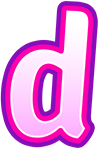
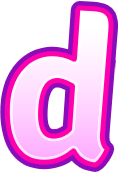
워드 인트로 타이틀 수정

diff --git a/src/componens/game/words/GameIntro.tsx b/src/componens/game/words/GameIntro.tsx
@@ -41,7 +41,7 @@ const GameIntro: FC = () => {
       bgmAudio.current = resources.audioBgm.sound;
 
       const mainTitle1 = container.current!.getChildByName('mainTitle1', true) as PIXISprite;
-      const mainTitle2 = container.current!.getChildByName('mainTitle2', true) as PIXISprite;
+      // const mainTitle2 = container.current!.getChildByName('mainTitle2', true) as PIXISprite;
       const subTitleCon = container.current!.getChildByName('subTitles', true) as PIXIContainer;
       const subTitleBg = container.current!.getChildByName('subTitleBg', true) as PIXISprite;
       const charactor = container.current!.getChildByName('charactor', true) as PIXISprite;
@@ -58,22 +58,22 @@ const GameIntro: FC = () => {
          
          gsap.to(mainTitle1, 0.3, {delay: 0.5, pixi: { alpha: 1}});
          gsap.from(mainTitle1, 0.7, {delay: 0.5, pixi: { scale: 0, y: '+=200'}, ease: Back.easeOut});
-         gsap.to(mainTitle2, 0.3, {delay: 0.8, pixi: { alpha: 1}});
-         gsap.from(mainTitle2, 0.7, {delay: 0.8, pixi: { scale: 0, y: '+=200'}, ease: Back.easeOut});
+         // gsap.to(mainTitle2, 0.3, {delay: 0.8, pixi: { alpha: 1}});
+         // gsap.from(mainTitle2, 0.7, {delay: 0.8, pixi: { scale: 0, y: '+=200'}, ease: Back.easeOut});
 
-         gsap.from(subTitleCon, 0.8, {delay: 1.4, pixi: { scale: 0.7, y: '+=100' }, ease: Back.easeOut});
-         gsap.to(subTitleBg, 1, {delay: 1.4, pixi: { alpha: 1 }});
+         gsap.from(subTitleCon, 0.8, {delay: 1, pixi: { scale: 0.7, y: '+=100' }, ease: Back.easeOut});
+         gsap.to(subTitleBg, 1, {delay: 1, pixi: { alpha: 1 }});
          const nums1 = [0, 2, 1];
          const nums2 = [1, 0, 2];
          Array.from(Array(6), (k,i) => {
             const subTitle = container.current!.getChildByName(`subTitle${i+1}`, true) as PIXISprite;
             let num1 = nums1[i%3]+0.1*i;
             let num2 = nums2[i%3]+0.1*i;
-            gsap.to(subTitle, 0.6, {delay: 1.4, pixi: { alpha: 1, brightness: 1 }, ease: Linear.easeNone});
-            gsap.to(subTitle, 0.3, {delay: 0.2 * num1 + 1.8, pixi: { alpha: 0.2, brightness: 2 }, ease: Linear.easeNone});
-            gsap.to(subTitle, 0.3, {delay: 0.2 * num1 + 2, pixi: { alpha: 1, brightness: 1 }, ease: Linear.easeNone});
-            gsap.to(subTitle, 0.3, {delay: 0.2 * num2 + 2.2, pixi: { alpha: 0.5, brightness: 1.5 }, ease: Linear.easeNone});
-            gsap.to(subTitle, 0.3, {delay: 0.2 * num2 + 2.4, pixi: { alpha: 1, brightness: 1 }, ease: Linear.easeNone});
+            gsap.to(subTitle, 0.6, {delay: 1, pixi: { alpha: 1, brightness: 1 }, ease: Linear.easeNone});
+            gsap.to(subTitle, 0.3, {delay: 0.2 * num1 + 1.4, pixi: { alpha: 0.2, brightness: 2 }, ease: Linear.easeNone});
+            gsap.to(subTitle, 0.3, {delay: 0.2 * num1 + 1.6, pixi: { alpha: 1, brightness: 1 }, ease: Linear.easeNone});
+            gsap.to(subTitle, 0.3, {delay: 0.2 * num2 + 1.8, pixi: { alpha: 0.5, brightness: 1.5 }, ease: Linear.easeNone});
+            gsap.to(subTitle, 0.3, {delay: 0.2 * num2 + 2, pixi: { alpha: 1, brightness: 1 }, ease: Linear.easeNone});
          });
 
          gsap.to(charactor, 0.3, {delay: 0.1, pixi: { alpha: 1}});
@@ -96,7 +96,7 @@ const GameIntro: FC = () => {
          gsap.to([leftHighLigt1, rightHighLigt1, leftHighLigt2, rightHighLigt2], 0.2, {pixi: {brightness: 1.5}, yoyo: true, repeat: -1, ease: Linear.easeNone});
       } else {
          mainTitle1.alpha = 1;
-         mainTitle2.alpha = 1;
+         // mainTitle2.alpha = 1;
          subTitleBg.alpha = 1;
          Array.from(Array(6), (k,i) => {
             const subTitle = container.current!.getChildByName(`subTitle${i+1}`, true) as PIXISprite;
@@ -150,52 +150,52 @@ const GameIntro: FC = () => {
             <Sprite 
                name="mainTitle1" 
                texture={resources.introMainTitle1.texture}
-               anchor={[1, 0.5]}
-               position={[967, 373]}
+               anchor={0.5}
+               position={[1025, 343]}
                alpha={0} />
-            <Sprite 
+            {/* <Sprite 
                name="mainTitle2" 
                texture={resources.introMainTitle2.texture}
                anchor={[0, 0.5]}
                position={[977, 375]}
-               alpha={0} />
+               alpha={0} /> */}
          </Container>
 
          <Container name="subTitles" position={[1024, 540]}>
             <Sprite 
                name="subTitleBg" 
                texture={resources.introSubTitleBg.texture}
-               position={[-312, -114]}
+               position={[-370, -130]}
                alpha={0} />
             <Sprite 
                name="subTitle1" 
                texture={resources.introSubTitle1.texture}
-               position={[-274, -63]}
+               position={[-332, -77]}
                alpha={0} />
             <Sprite 
                name="subTitle2" 
                texture={resources.introSubTitle2.texture}
-               position={[-134, -37]}
+               position={[-165, -46]}
                alpha={0} />
             <Sprite 
                name="subTitle3" 
                texture={resources.introSubTitle3.texture}
-               position={[-44, -75]}
+               position={[-57, -93]}
                alpha={0} />
             <Sprite 
                name="subTitle4" 
                texture={resources.introSubTitle4.texture}
-               position={[6, -38]}
+               position={[2, -47]}
                alpha={0} />
             <Sprite 
                name="subTitle5" 
                texture={resources.introSubTitle5.texture}
-               position={[96, -75]}
+               position={[110, -87]}
                alpha={0} />
             <Sprite 
                name="subTitle6" 
                texture={resources.introSubTitle6.texture}
-               position={[180, -30]}
+               position={[208, -37]}
                alpha={0} />
          </Container>
 

diff --git a/src/componens/game/phonics/GameIntro.tsx b/src/componens/game/phonics/GameIntro.tsx
@@ -59,7 +59,6 @@ const GameIntro: FC = () => {
       const aimTarget = container.current?.getChildByName('aimTarget') as PIXISprite;
       const mainTitle = container.current?.getChildByName('mainTitle') as PIXISprite;
       const subTitle1 = container.current?.getChildByName('subTitle1') as PIXISprite;
-      const subTitle2 = container.current?.getChildByName('subTitle2') as PIXISprite;
       const line = container.current?.getChildByName('line') as PIXISprite;
       const infoTxt = container.current!.getChildByName('infoTitle', true);
       const startBtn = container.current!.getChildByName('startBtnCon', true);
@@ -68,7 +67,6 @@ const GameIntro: FC = () => {
       const topFocus = container.current?.getChildByName('topFocus') as PIXISprite;
       const textLight1 = container.current!.getChildByName('textLight1', true);
       const textLight2 = container.current!.getChildByName('textLight2', true);
-      const textLight3 = container.current!.getChildByName('textLight3', true);
 
       leftFocus.pivot.x = 1024;
       rightFocus.pivot.x = -1024;
@@ -122,8 +120,6 @@ const GameIntro: FC = () => {
          mainTitle.alpha = 1;
          subTitle1.alpha = 1;
          subTitle1.rotation = 0;
-         subTitle2.alpha = 1;
-         subTitle2.rotation = 0;
          line.alpha = 1;
          line.rotation = 0;
          infoTxt.alpha = 1;
@@ -134,7 +130,6 @@ const GameIntro: FC = () => {
          rightFocus.scale.set(1);
          textLight1.alpha = 1;
          textLight2.alpha = 1;
-         textLight3.alpha = 1;
       }
       
 

diff --git a/src/componens/game/alphabet/GameIntro.tsx b/src/componens/game/alphabet/GameIntro.tsx
@@ -154,11 +154,11 @@ const GameIntro: FC = () => {
          gsap.to(infoTxt, 0.6, {delay: 1.8, pixi: {alpha: 1}});
          gsap.to(startBtn, 0.6, {delay: 2, pixi: {y: 0, alpha: 1}, ease: Power2.easeOut});
       } else {
-         Array.from(Array(3), (k, i) => {
+         Array.from(Array(6), (k, i) => {
             const title = container.current!.getChildByName(`title1_${i+1}`, true);
             title.alpha = 1;
          });
-         Array.from(Array(10), (k, i) => {
+         Array.from(Array(3), (k, i) => {
             const title = container.current!.getChildByName(`title2_${i+1}`, true);
             title.alpha = 1;
          });

diff --git a/src/assets/WordsGameAssets.ts b/src/assets/WordsGameAssets.ts
@@ -39,7 +39,6 @@ export default ( langCode: string, low: number ) => {
       { name: 'introStartBtnHover', url: `${introImgPath}start_btn_hover.png`},
       { name: 'introInfoBtn', url: `${introImgPath}info_btn.png`},
       { name: 'introMainTitle1', url: `${introImgPath}main_title1.png`},
-      { name: 'introMainTitle2', url: `${introImgPath}main_title2.png`},
       { name: 'introSubTitleBg', url: `${introImgPath}sub_title_bg.png`},
       { name: 'introSubTitle1', url: `${introImgPath}sub_title_1.png`},
       { name: 'introSubTitle2', url: `${introImgPath}sub_title_2.png`},
